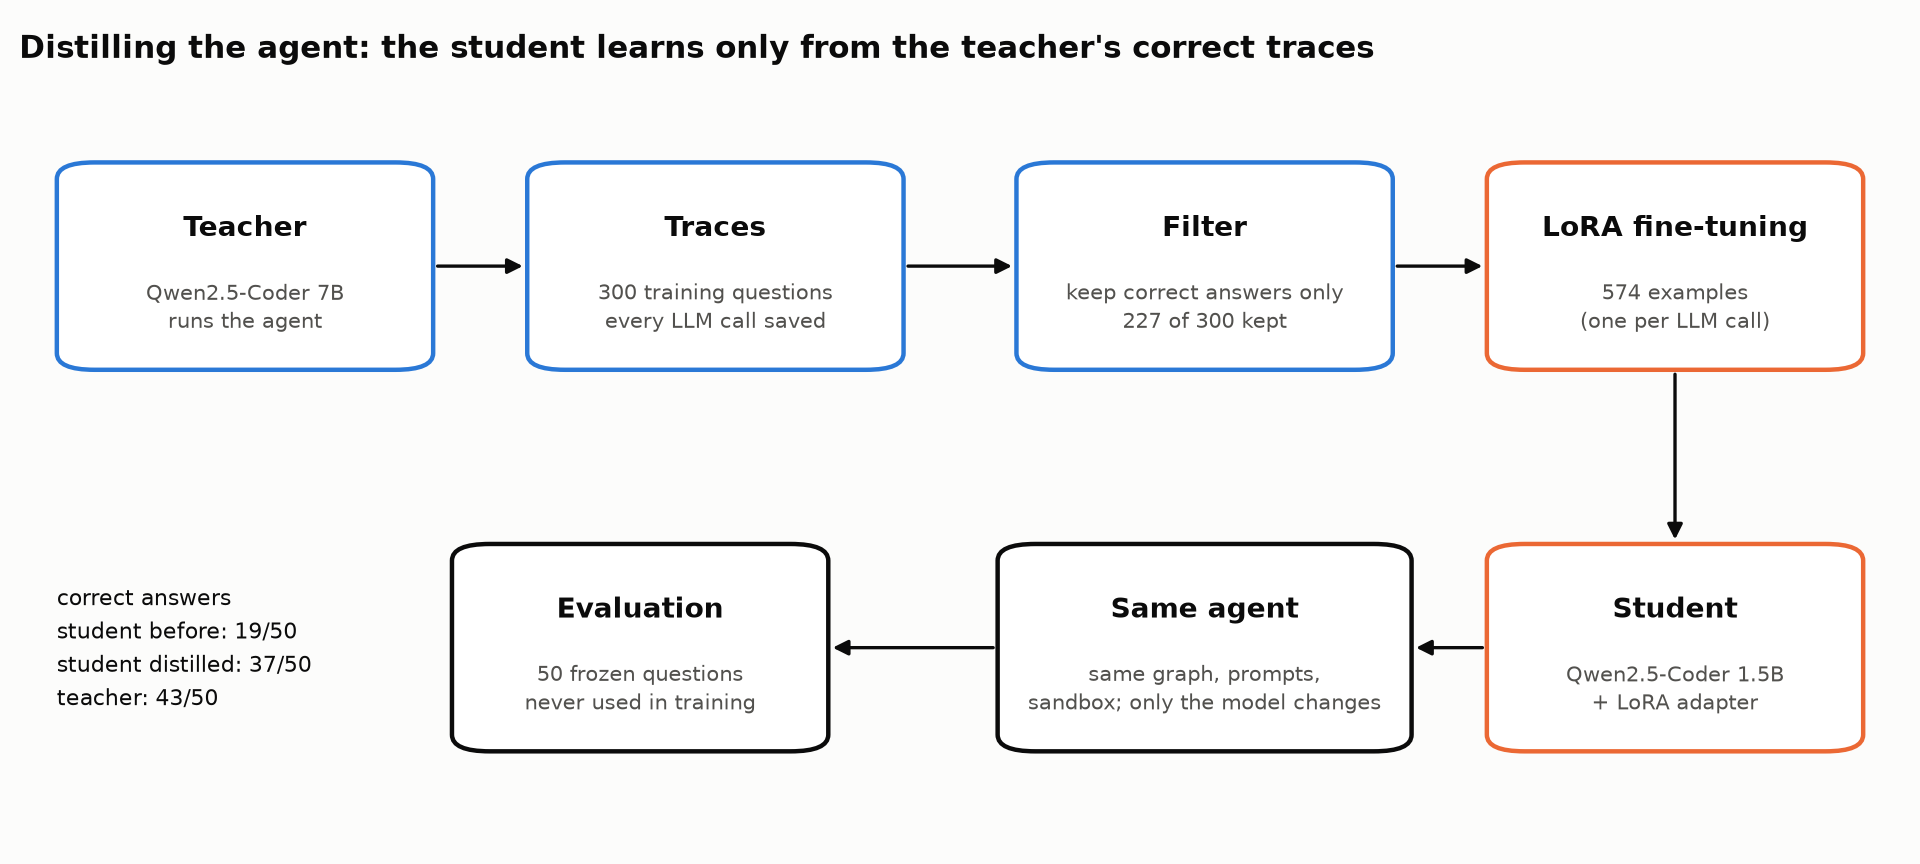
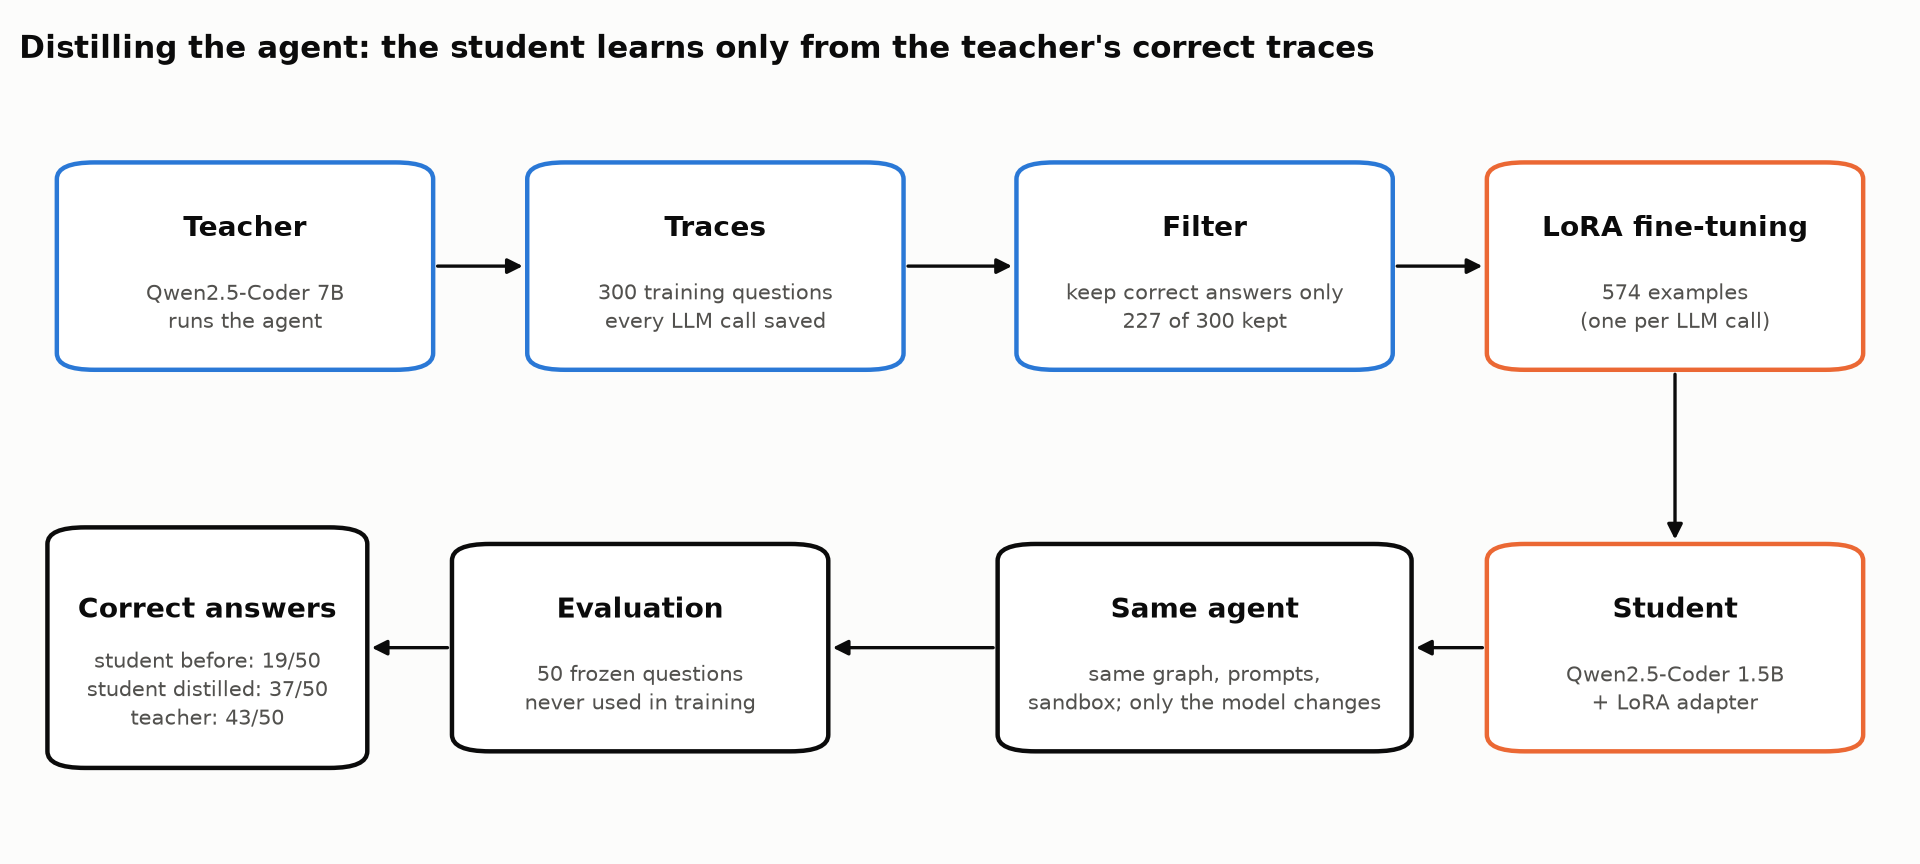
Diagram fix

Changed region(s): [[0.0312, 0.6875, 0.2188, 0.8438], [0.0312, 0.875, 0.1875, 0.9062], [0.0312, 0.5938, 0.1875, 0.625]]

diff --git a/scripts/make_architecture.py b/scripts/make_architecture.py
@@ -74,11 +74,12 @@ def main() -> None:
     arrow(ax, (xs[3] - 0.1, bottom), (xs[2] + 0.11, bottom))
     arrow(ax, (xs[2] - 0.11, bottom), (xs[1] + 0.06, bottom))
 
-    # result next to the evaluation box
-    res = (f"correct answers\nstudent before: {ev['student_base']['n_correct']}/50\n"
+    # result box, fed by the evaluation box
+    res = (f"student before: {ev['student_base']['n_correct']}/50\n"
            f"student distilled: {ev['student_distilled']['n_correct']}/50\n"
            f"teacher: {ev['teacher']['n_correct']}/50")  # fmt: skip
-    ax.text(0.02, bottom, res, ha="left", va="center", fontsize=10, color=INK, linespacing=1.5)
+    box(ax, 0.1, bottom, "Correct answers", res, INK, w=0.17, h=0.29)
+    arrow(ax, (xs[1] - 0.14, bottom), (0.185, bottom))
     ax.text(0.0, 0.98, "Distilling the agent: the student learns only from the teacher's correct traces",
             fontsize=14, weight="bold", color=INK, va="top")  # fmt: skip
 
